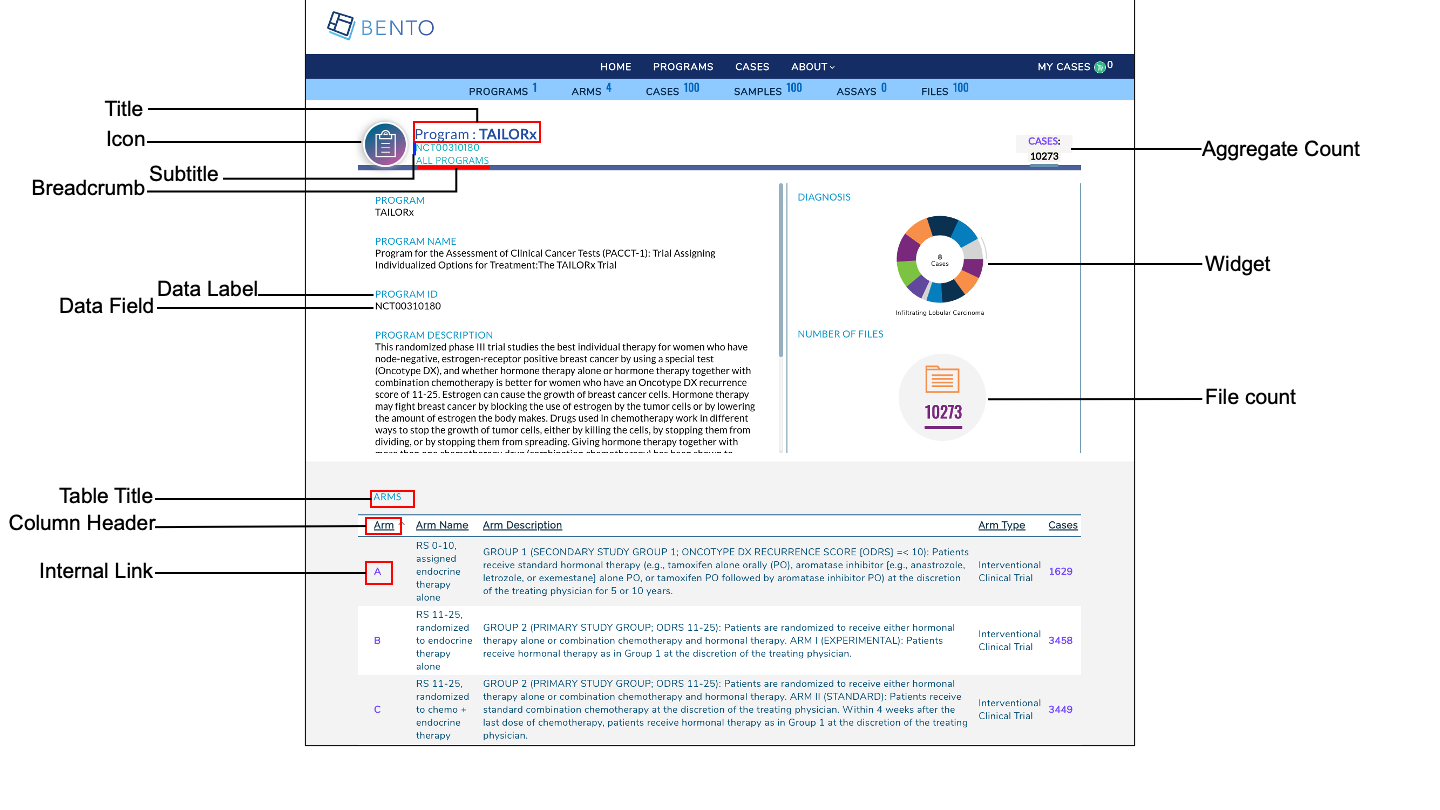
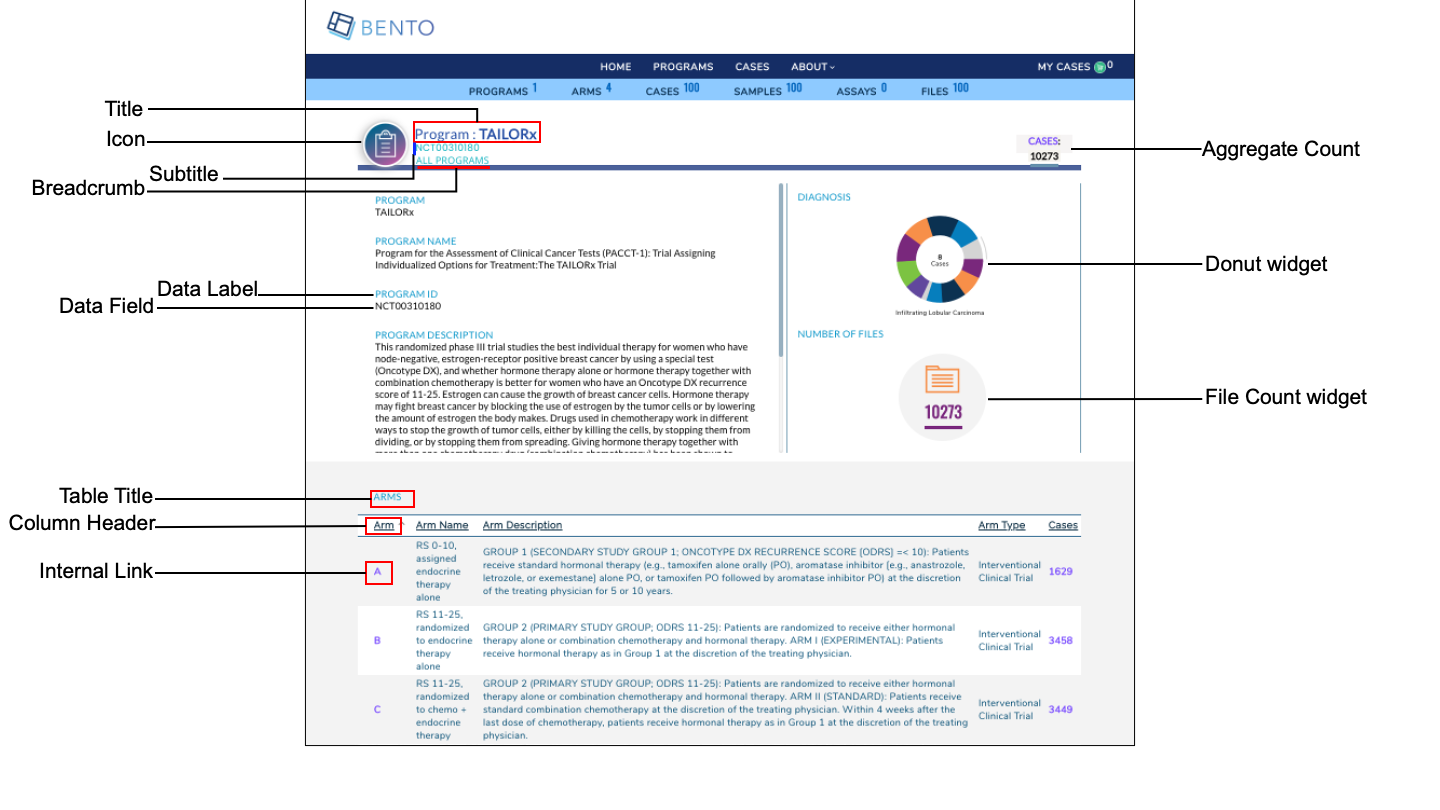
modified:   assets/program-detail-page.png modified:   configuration/program-detail-page.md modified:   configuration/program-listing-page.md

diff --git a/configuration/program-detail-page.md b/configuration/program-detail-page.md
@@ -6,13 +6,13 @@ title: Program Detail Page
 # Program Detail Page
 The Program Detail Page displays detailed, program-level information for each of the programs that has submitted data to your data sharing platform. A Bento Program Detail Page has several configurable components. See below for details. 
 ![Program Detail Page Elements](https://github.com/CBIIT/bento-docs/blob/master/assets/program-detail-page.png?raw=true)
-**Program Detail Page Elements.** Displayed are the configurable components of a Bento Program Detail Page: Program Detail Page Title, Program Detail Page Subtitle, Program Detail Page Icon, Breadcrumb, Data Labels, Data Fields, Table Title, Table Column Header, Table Column Content, Program Level Widget, Program Level Aggregate Count, Program Level File Count and Embedded External and Internal Links.
+**Program Detail Page Elements.** Displayed are the configurable components of a Bento Program Detail Page: Program Detail Page Title, Program Detail Page Subtitle, Program Detail Page Icon, Breadcrumb, Data Labels, Data Fields, Table Title, Table Column Header, Table Column Content, Program Level Aggregate Count, Program Level Donut Widget, Program Level File Count Widget and Embedded External and Internal Links.
 
 ### Prerequisites
 
 1. The files that specify the configuration parameters of the Bento Landing Page are stored in the GitHub `https://github.com/CBIIT/bento-frontend` (representing your GitHub username as `YOUR-USERNAME`). Create a local clone of your fork into a local directory, represented in these instructions as `$(src)`.
 
-2. Configuration Parameters for all Program Listing Page elements can be specified in the file: `$(src)/bento-frontend/blob/master/src/bento/programData.js`.
+2. Configuration Parameters for all Program Detail Page elements can be specified in the file: `$(src)/bento-frontend/blob/master/src/bento/programDetailData.js`.
 
 3. All images and icons that you use in your Bento instance should be accessible via a public url. 
 
@@ -23,7 +23,7 @@ The Page Title section has three components: (a) Page Title (b) Page Subtitle an
 
 ### Configuring the Page Title, Page Subtitle and Breadcrumb
 
-1. Open `bento-frontend/src/bento/programDetailData.js`
+1. Open `$(src)/bento-frontend/src/bento/programDetailData.js`.
 2. Under `pageTitle`:
 	* Set the field `label` to the Page Title of your choice.
 	* Set the field `field` to the GraphQl API query that returns the Page Title. 
@@ -55,9 +55,10 @@ const breadCrumb = {
  
 ## Configuring the Aggregate Count
 The Program Level Aggregate Count field allows you to display a Program level count for an key data entity in your data sharing platform.
-1. Open `bento-frontend/src/bento/programDetailData.js`.
+
+1. Open `$(src)/bento-frontend/src/bento/programDetailData.js`.
 2. Under `aggregateCount`:
-	* Set the field `labelText` to the display text for your aggregate count of your choice.
+	* Set the field `labelText` to the display text for the aggregate count of your choice.
 	* Set the field `field` to the GraphQL API query that returns your aggregate count.
 	* Set the field 'link'  to the embedded link for the aggregate count. This is usually a link to an internal page that displays additional detail on the aggregate count.
  	* Set the field `display` to 'true' if you want to display an aggregate  count, 'false' otherwise.
@@ -76,10 +77,10 @@ const aggregateCount = {
 ```
  
 
-## Configuring the icons in the Program Detail Page
+## Configuring icons in the Program Detail Page
 The Progam Detail Page supports a Program Detail Page Icon, displayed next to the Program Title, and an External Link Icon, that is displayed next to an external link in the page.
 
-1. Open `bento-frontend/src/bento/programDetailData.js`.
+1. Open `$(src)/bento-frontend/src/bento/programDetailData.js`.
 2. Under `icon`:
 	* Set the field 'src' to the URL for the Program Detail Page Icon of your choice.
 	* Set the field 'alt' to the ALT tag for the Program Detail Page Icon.
@@ -102,107 +103,219 @@ const externalLinkIcon = {
 ...
 ```
 
- 
+## Configuring the Program Detail Page Panels
+The Program Detail Page is divided into a Left Hand Panel and a Right Hand Panel. The Left Panel displays a set of Program specific details in the form of label-value pairs. The Right Panel displays Program level information as a set of graphics.
 
-## Left panel configuration
+### Configuring the Left Hand Panel
+The left panel can display a maximum of **6** attributes as label:value pairs. If you add more than 6 attributes, **Bento will display only the first 6 attributes without a warning or error message**.
+1. Open `$(src)/bento-frontend/src/bento/programDetailData.js`.
+2. Under `leftPanelattributes`:
+   * Add an object ({field: ; label: })to the `data` list.
+   * Set the field `field` to the GraphQL API query that returns the data field of your choice. This will be displayed as the value of in a label:value pair.
+   * Set the field `label` to a display label of your choice.
+3. Add your GraphQL API queries to `PROGRAM_DETAIL_QUERY`.
+4. You can add an embedded link to your label or your value, or both. Links can be internal or external. To add a link to your value specify an internal or external link by adding a `link` attribute to your object. To add a link to your label specify an internal or external link by adding a `internalLinkToLabel` or `externalLinkToLabel` attribute, respectively, to your object. Examples of four types of embedded links are given below. See below for additional notes on adding internal and external links.
+4. Example:
 
-### Configurable data elements (attributes)
+```javascript
+...
+const leftPanelattributes = {
+  data: [
+    {
+      //Label:Value pair with an internal link embedded in the Value.
+      field: '<GraphQL API query that returns the data for this label/value pair',
+      label: '<Label text for this label/value pair>',
+      link : '</programs/{program_id}>',
+    },
+    {
+      //Label:Value pair with an external link embedded in the Value.
+      field: '<GraphQL API query that returns the data for this label/value pair',
+      label: '<Label text for this label/value pair>',
+      link : '<https://cancer.sanger.ac.uk/cosmic/mutation/overview?id=113681877>',
+    },
+    {
+      //Label:Value pair with an internal link embedded in the Label.
+      field: '<GraphQL API query that returns the data for this label/value pair',
+      label: '<Label text for this label/value pair>',
+      internalLinkToLabel: '</programs/{program_id}>',
+    },
+    {
+      //Label:Value pair with an external link embedded in the Label.
+      field: '<GraphQL API query that returns the data for this label/value pair',
+      label: '<Label text for this label/value pair>',
+      externalLinkToLabel: '<https://cancer.sanger.ac.uk/cosmic/mutation/overview?id=113681877>',
+    },
+    ...
+    ]
+  }
+...
+  const PROGRAM_DETAIL_QUERY = gql`{
+    ...
+    '<Your GraphQL API query>'
+    ...
+  }
+```
 
-1. Open the configuration file located at bento-frontend/src/bento/programDetailData.js
-2. Edit the value for label 'field' under 'leftPanelattributes'->'data'
-3. Edit the value for label 'label' under 'leftPanelattributes'->'data'
-4. Note limit set to a maximum of 6 attributes in this section.
-
-### Configurable hyperlinks on data elements (Internal, External, external link to label, internal link to label)
-
-Custodian shall have the ability to add hyperlinks to table contents.
-
-1. Open the configuration file located at bento-frontend/src/bento/programDetailData.js
-2. Edit the value for label 'link' under 'leftPanelattributes'->'data'
-
-#### Internal Links
+##### Internal Links to Labels and Values
 1. links starting with '/' are considered as internal links
 2. Internal links shall be opened in the same tab.
 3. Dynamic links can be generated by passing a valid table filed to '{}'. For example, '/arm/{study_acronym}' shall link to 'arm/A'
 
-#### External Links
+##### External Links to Labels and Values
 1. External links shall start with 'http://' or'https://'
-2. External links shall show-up with 'externalLinkIcon' (see #2 under 'icons configuration' on how to configure an external link icon)
+2. External links shall show-up with 'externalLinkIcon' 
 3. External link shall be opened in a new tab.
 4. Dynamic links can be generated by passing a valid table filed to '{}'. For example, 'https://pubmed.ncbi.nlm.nih.gov/{pubmed_id}' shall link to 'https://pubmed.ncbi.nlm.nih.gov/29860917/'
 
-#### Internal Links to label
-1. Set 'internalLinkToLabel' as true under 'leftPanelattributes'->'data'.
-2. Label is delivered as link with field value
-3. Internal links to label shall be opened in same tab
+## Configuring the Right Hand Panel
+In the current version of Bento, you can (a) add a donut widget that displays the counts by value of a key data entity in your data sharing platform and (b) add a count of files stored for the given program.
 
-### External Links to label
-1. Set 'externalLinkToLabel' as true under 'leftPanelattributes'->'data'
-2. Label is delivered as link with field value
-3. External links shall show-up with 'externalLinkIcon' (see #2 under 'icons configuration' on how to configure an external link icon)
-4. External links to label shall be opened in a new tab
+#### Configuring the Donut widget
+1. Open `$(src)/bento-frontend/src/bento/programDetailData.js`.
+2. Under `rightPanelattributes`:
+  * Under `widget`:
+    * Set the field `field` to the GraphQL API query that returns the counts by value for your data entity.
+    * Set the field `label` to a display label for the widget.
+    * Set the field `display` to true if you want to display the widget and to `false`, otherwise.
+3. Example:
+
+```javascript
+...
+const rightPanelAttributes = {
+  widget: [
+    {
+      field: '<GraphQl API that returns the counts by value for your data entity>',
+      label: '<Widget Label>',
+      display: 'true|false',
+    },
+  ],
+  ...
+}
+...
+const PROGRAM_DETAIL_QUERY = gql`{
+    ...
+    '<Your GraphQL API query>'
+    ...
+}
+...
+```
+
+#### Configuring the File Count widget
+The File count graphic displays the number of Program Level files.
+
+1. Open `$(src)/bento-frontend/src/bento/programDetailData.js`.
+2. Under `files`:
+   * Set the field `field` to the GraphQL API query that returns the number of program-level files.
+   * Set the field `label` to the display label text for the File Count widget.
+   * Set the field `fileIconSrc` to the URL for the File Icon of your choice.
+   * Set the field `fileIconAlt` to the ALT tag for the File Icon.
+   * Set the field `display` to 'true' if you want to display the File Count widget and to  'false', otherwise.
+   * Update `PROGRAM_DETAIL_QUERY` with the API query that returns file counts.
+3. Example:
+
+```javascript
+...
+const rightPanelAttributes = {
+  ...
+  files: [
+    {
+      field: '<GraphQL API returning program level file count>',
+      label: '<Display label for File Count widget>',
+      fileIconSrc: '<URL for File Icon image>',
+      fileIconAlt: '<ALT tag for File Icon>',
+      display: 'true|false',
+    },
+  ],
+};
+...
+const PROGRAM_DETAIL_QUERY = gql`{
+    ...
+    '<Your GraphQL API query>'
+    ...
+}
+...
+```
  
+## The Program Detail Page Table
+The Program Detail Page table can be used to display program-level information such as the studies or projects that belong to the program.
 
-## Right panel configuration
+### Configuring the Program Detail Page Table.
+1. Open `$(src)/bento-frontend/src/bento/programDetailData.js`.
+2. In `table`:
+  * The `display` field is set to true, by default. *Set this field to false if you do not wish to display a table in the Program Detail Page*.
+  * Set the field `title` to the the title of your table.
+  * Set the field `dataField` to the name of the GraphQL API query being used to return data for the Program Detail Page. *Note: This query should match the GraphQL API query in `PROGRAM_DETAIL_QUERY`*.
+  * Set the field `defaultSortField` to the name of the query field that will be used to sort the Program Listing Table. Note: this query field should be displayed as one of the columns in the Program Listing Table.
+  * Set the field `defaultSortDirection` to the sort order of your choice. Valid values are 'asc' (ascending) and 'desc' (descending).
+  * Add your GraphQL API query to `PROGRAM_DETAIL_QUERY`.
+3. Example:
 
-### Configure widget
+```javascript
+...
+const table = {
+  display: true,
+  title: '<Table Title>',
+  dataField: '<GraphQL API query returning data for this page.>',
+  defaultSortField: '<GraphQL API query field used to sort the table.>',
+  defaultSortDirection: '<sort order, asc|desc>',
+ ...
+const PROGRAM_DETAIL_QUERY = gql`{
+  '<Your GraphQL query>'' {
+    '<Data fields returned by your GraphQL API query>'
+  ... 
+ }
+}
+```
 
-1. Open the configuration file located at bento-frontend/src/bento/programDetailData.js
-2. Edit the value for key 'field' under 'rightpanel'->'widget'.
-3. Edit the value for key 'label' under 'rightpanel'->'widget'.
-4. Edit the value for key 'display' under 'rightpanel'->'widget'. (This can be either 'true' or 'false'. Setting this value to 'false' shall hide this widget section eniterly.)
+### Adding columns to the Program Detail Page Table.
+You can add up to 10 columns in the Program Detail Page Table. If you add more than 10 columns, **Bento will display the first 10 columns without an error or warning message**. The top-down order of columns will be displayed left to right on the UI.
 
-### Configure Number of files
+1. Open `$(src)/bento-frontend/src/bento/programDetailData.js`.
+2. Under `table`, add an object `{field: , label: , link: ,}` to the `columns` list:
+  * Set the field `field` to the GraphQL API query data field that returns the data for the column.
+  * Set the field `label` to the column header name.
+  * Set the field `link` to an internal or external link that is to be embedded into the the column value. See below for additional instructions on adding internal and external links. *Links are optional*.
+  * Add your GraphQL API query data field to `PROGRAM_DETAIL_QUERY`.
+3. Example:
 
-1. Open the configuration file located at bento-frontend/src/bento/programDetailData.js
-2. Edit the value for key 'field' under 'rightpanel'->'files'.
-3. Edit the value for key 'label' under 'rightpanel'->'files'.
-4. Edit the value for key 'fileIconSrc' under 'rightpanel'->'files' to display an icon.
-5. Edit the value for key 'fileIconAlt' under 'rightpanel'->'files'.
-6. Edit the value for key 'display' under 'rightpanel'->'files'. (This can be either 'true' or 'false'. Setting this value to 'false' shall hide this files section eniterly.)
- 
+```javascript
+const table = {
+  ...
+  columns: [
+    {
+      field: '<GraphQL API query field returning data for this column>',
+      label: '<Column Header>',
+      link: '<link to be embedded in column value>',
+    },
+    {
+      field: '<GraphQL API query field returning data for this column>',
+      label: 'PubMed ID',
+    },
+    ...
+  ],
+};
 
-## Table configuration
+const PROGRAM_DETAIL_QUERY = gql`{
+  '<Your GraphQL query>'' {
+    '<Data fields returned by your GraphQL API query>'
+  ... 
+ }
+}
+```
 
-### Configure Table Title
-
-1. Open the configuration file located at bento-frontend/src/bento/programDetailData.js
-2. Edit the value for key 'title' under 'table'.
-
-### Configure Table Header (labels for each column)
-
-1. Open the configuration file located at bento-frontend/src/bento/programDetailData.js
-2. Edit the value for label 'label' under 'table'->'columns'
-3. Note: Limit set at maximum 10 table headers/columns
-
-### Configure Table Contents
-
-1. Open the configuration file located at bento-frontend/src/bento/programDetailData.js
-2. Edit the value for label 'field' under 'table'->'columns'
-3. Note: Limit set at maximum 10 table headers/columns
-
-### Configure default sort
-
-1. Open the configuration file located at bento-frontend/src/bento/programDetailData.js
-2. To specify which table column should be sorted by default - Edit the value for label 'defaultSortField' under 'table'.
-3. Note: This should be one of 'field' in table->'column'
-4. To specify sort direction - Edit the value for label 'defaultSortDirection' under 'table'
-5. Note: This should be either 'asc' for ascending or 'desc' for descending
-
-### Configurable hyperlinks for table (Internal and External)
-
-Custodian shall have the ability to add hyperlinks to table contents.
-
-1. Open the configuration file located at bento-frontend/src/bento/programDetailData.js
-2. Edit the value for label 'link' under 'table'->'columns'
-
-#### Internal Links
-1. links starting with '/' are considered as internal links
+#### Internal Links in the Program Listing Table.
+1. links starting with '/' are considered as internal links.
 2. Internal links shall be opened in the same tab.
-3. Dynamic links can be generated by passing a valid table filed to '{}'. For example, '/arm/{study_acronym}' shall link to 'arm/A'
+3. Dynamic links can be generated by passing a valid table field to '{}'. For example, '/program/{program_id}' shall link to 'program/NCT00310180'.
 
-#### External Links
-1. External links shall start with 'http://' or'https://'
-2. External links shall show-up with 'externalLinkIcon' (see #2 under 'icons configuration' on how to configure an external link icon)
+#### External Links in the Program Listing Table.
+1. External links shall start with 'http://' or'https://'.
+2. External links shall show-up with 'externalLinkIcon'.
 3. External link shall be opened in a new tab.
-4. Dynamic links can be generated by passing a valid table filed to '{}'. For example, 'https://pubmed.ncbi.nlm.nih.gov/{pubmed_id}' shall link to 'https://pubmed.ncbi.nlm.nih.gov/29860917/'
+4. Dynamic links can be generated by passing a valid table filed to '{}'. 
+   For example, 'https://pubmed.ncbi.nlm.nih.gov/{pubmed_id}' shall link to 'https://pubmed.ncbi.nlm.nih.gov/29860917/'.
+
+## Suggested Best Practice
+1. Dimension of the Program Detail Page Icon= W X H pixels
+2. Dimension of the File Icon = W X H pixels
+3. Dimension of the External Link Icon = W X H pixels.

diff --git a/configuration/program-listing-page.md b/configuration/program-listing-page.md
@@ -56,6 +56,7 @@ The table in the Program Listing Page lists the programs that store data in your
 	* Set the field `defaultSortDirection` to the sort order of your choice. Valid values are 'asc' (ascending) and 'desc' (descending).
 	* Add your GraphQL API query to `PROGRAMS_QUERY`.
 3. Example:
+
 ```javascript
 ...
 const table = {
@@ -109,6 +110,7 @@ const PROGRAMS_QUERY = gql`{
  }
 }
 ```
+
 
 #### Internal Links in the Program Listing Table.
 1. links starting with '/' are considered as internal links.
